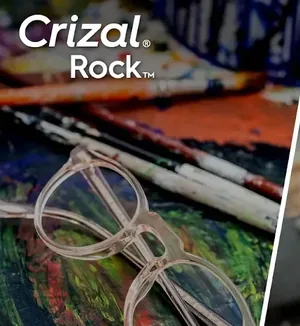
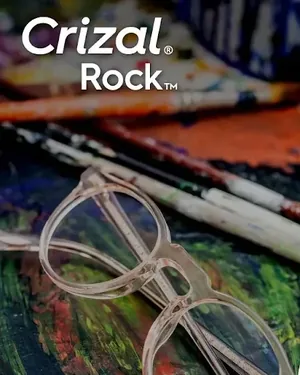
Sua 2 loi hinh anh trong bai Stellest
Kiem lai bang mat sau khi chen:
- Crizal Rock: co net trang cheo (vach ngan panel) o mep phai. Cat hep tu
  515 xuong 448px, het.
- Airwear: con mot cham thua o mep duoi dai tieu de (sot lai tu dong chu
  da cat), va thua khoang trang duoi hang icon. Cat lai 455 -> 397px.
- Cap nhat width/height trong HTML cho khop kich thuoc that, tao lai ban
  -600w va -300w.

Kiem: 4/4 anh khai bao width/height khop file that, 12/12 file bien the
ton tai, khong tran ngang o 390px.

Claude-Session: https://claude.ai/code/session_01DAv96jzgDdqbG7DTAoBEDM

diff --git a/trong-kinh-essilor-stellest.html b/trong-kinh-essilor-stellest.html
@@ -184,7 +184,7 @@ footer a{color:#B7AB92}
 </ul>
 <p>Chiết suất 1.59 cũng mỏng hơn tròng 1.50 ở cùng số độ, nhưng với trẻ thì độ bền thường là thứ đáng cân nhắc trước.</p>
 
-<figure><img src="/uploads-opt/learn-stellest-airwear.webp" alt="Năm đặc tính của vật liệu Airwear 1.59: chống vỡ, nhẹ, mỏng, chống UV 100%, hợp mọi loại gọng" loading="lazy" width="1441" height="455"><figcaption>Năm đặc tính Essilor nêu cho vật liệu Airwear 1.59.</figcaption></figure>
+<figure><img src="/uploads-opt/learn-stellest-airwear.webp" alt="Năm đặc tính của vật liệu Airwear 1.59: chống vỡ, nhẹ, mỏng, chống UV 100%, hợp mọi loại gọng" loading="lazy" width="1441" height="397"><figcaption>Năm đặc tính Essilor nêu cho vật liệu Airwear 1.59.</figcaption></figure>
 
 <h2>Crizal Rock: lớp phủ, và vì sao nó đáng nghĩ tới với kính trẻ</h2>
 <p>Crizal Rock là lớp phủ chống trầy và chống bám bẩn của Essilor. Nó giảm bám vân tay, bụi và nước, nên lau nhanh hơn và ít phải lau mạnh hơn.</p>
@@ -225,7 +225,7 @@ footer a{color:#B7AB92}
 <li>Tài liệu sản phẩm Essilor Stellest và Crizal Rock, bản tiếng Việt, do nhà phân phối cung cấp cho cửa hàng.</li>
 </ul>
 
-<figure><img src="/uploads-opt/learn-stellest-crizal-rock.webp" alt="Tròng kính phủ Crizal Rock đặt trên nền tranh sơn dầu" loading="lazy" width="515" height="560"><figcaption>Crizal Rock là váng phủ mặc định đi kèm Stellest Clear. Essilor công bố mức hạn chế trầy xước gấp ba lần so với thế hệ trước.</figcaption></figure>
+<figure><img src="/uploads-opt/learn-stellest-crizal-rock.webp" alt="Tròng kính phủ Crizal Rock đặt trên nền tranh sơn dầu" loading="lazy" width="448" height="560"><figcaption>Crizal Rock là váng phủ mặc định đi kèm Stellest Clear. Essilor công bố mức hạn chế trầy xước gấp ba lần so với thế hệ trước.</figcaption></figure>
 
 <h2>Đưa con tới đo thử</h2>
 <p>Manh Long Optical, 147A Lê Duẩn, Phường Cửa Nam, Hà Nội. Mở cửa 8:00 – 21:30 tất cả các ngày. Đo mắt miễn phí, mua hay không cũng vậy.</p>
